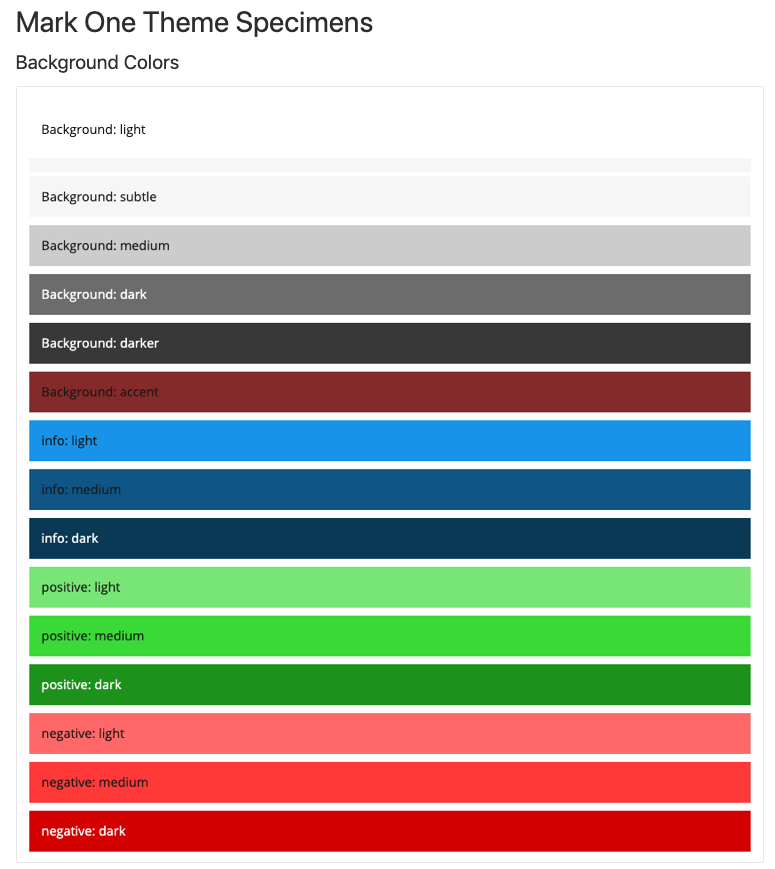
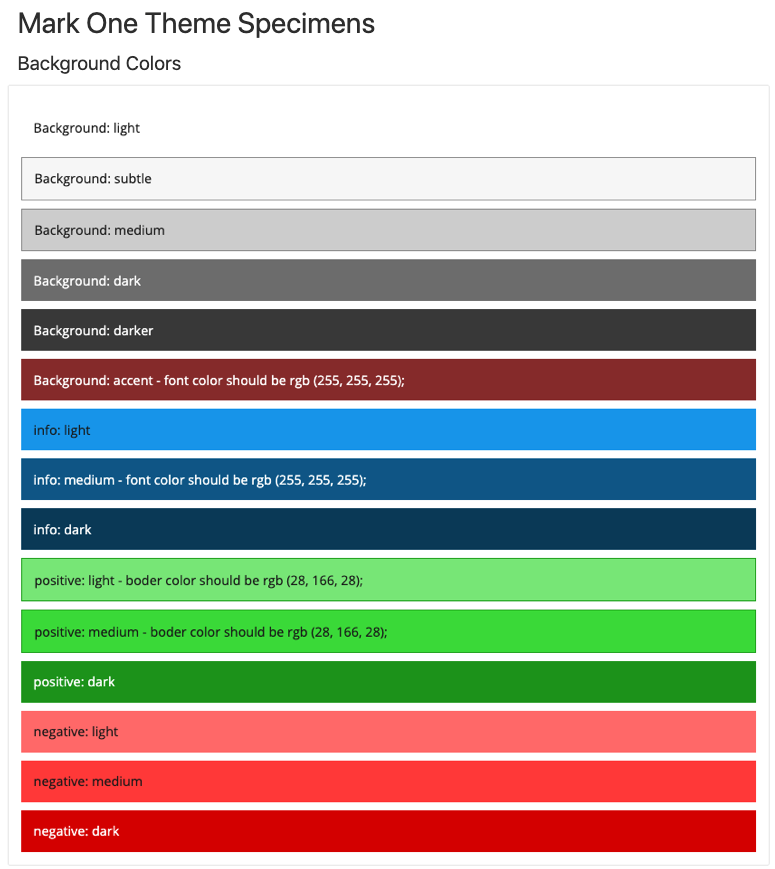
Add files via upload
Recommended colors

Changed region(s): [[0.0, 0.1864, 0.991, 0.9942], [0.0, 0.0, 0.4955, 0.0932], [0.031, 0.1243, 0.1858, 0.1554]]

diff --git a/mark-one_colors_harvard/index.html b/mark-one_colors_harvard/index.html
@@ -1,23 +1,23 @@
-<!-- Current UI code on https://seas-computing.github.io/mark-one/#mark-one-theme-specimens -->
+<!-- Proposed accessibility colors for https://seas-computing.github.io/mark-one/#mark-one-theme-specimens -->
 
 <div class="rsg--preview-35" data-preview="MarkOneWrapper">
-    <div>
         <div>
-            <div value="light" class="sc-gqjmRU ccMzfd">Background: light</div>
-            <div value="subtle" class="sc-gqjmRU dPKwax">Background: subtle</div>
-            <div value="medium" class="sc-gqjmRU mwVXH">Background: medium</div>
-            <div value="dark" class="sc-gqjmRU jniboe">Background: dark</div>
-            <div value="darker" class="sc-gqjmRU isYYzO">Background: darker</div>
-            <div value="accent" class="sc-gqjmRU mtCLT">Background: accent</div>
-            <div value="light" class="sc-gqjmRU fDrUPT">info: light</div>
-            <div value="medium" class="sc-gqjmRU idenXT">info: medium</div>
-            <div value="dark" class="sc-gqjmRU egagnU">info: dark</div>
-            <div value="light" class="sc-gqjmRU HYBmM">positive: light</div>
-            <div value="medium" class="sc-gqjmRU gERdYN">positive: medium</div>
-            <div value="dark" class="sc-gqjmRU lHRQF">positive: dark</div>
-            <div value="light" class="sc-gqjmRU jbflBj">negative: light</div>
-            <div value="medium" class="sc-gqjmRU cvxwPV">negative: medium</div>
-            <div value="dark" class="sc-gqjmRU dsyElU">negative: dark</div>
+                <div>
+                        <div value="light" class="sc-gqjmRU ccMzfd">Background: light</div>
+                        <div value="subtle" class="sc-gqjmRU dPKwax">Background: subtle - border color should be rgb (145, 145, 145);</div>
+                        <div value="medium" class="sc-gqjmRU mwVXH">Background: medium - border color should be rgb (145, 145, 145);</div>
+                        <div value="dark" class="sc-gqjmRU jniboe">Background: dark</div>
+                        <div value="darker" class="sc-gqjmRU isYYzO">Background: darker</div>
+                        <div value="accent" class="sc-gqjmRU mtCLT">Background: accent - font color should be rgb (255, 255, 255);</div>
+                        <div value="light" class="sc-gqjmRU fDrUPT">info: light</div>
+                        <div value="medium" class="sc-gqjmRU idenXT">info: medium - font color should be rgb (255, 255, 255);</div>
+                        <div value="dark" class="sc-gqjmRU egagnU">info: dark</div>
+                        <div value="light" class="sc-gqjmRU HYBmM">positive: light - boder color should be rgb (28, 166, 28);</div>
+                        <div value="medium" class="sc-gqjmRU gERdYN">positive: medium</div>
+                        <div value="dark" class="sc-gqjmRU lHRQF">positive: dark</div>
+                        <div value="light" class="sc-gqjmRU jbflBj">negative: light</div>
+                        <div value="medium" class="sc-gqjmRU cvxwPV">negative: medium</div>
+                        <div value="dark" class="sc-gqjmRU dsyElU">negative: dark</div>
+                </div>
         </div>
-    </div>
 </div>
